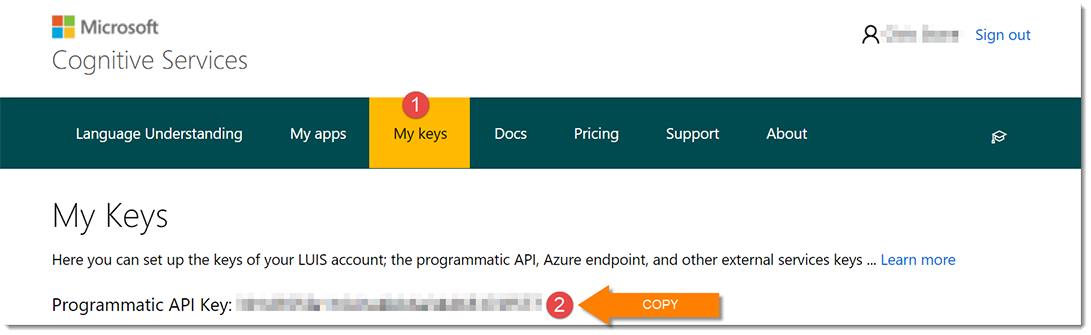
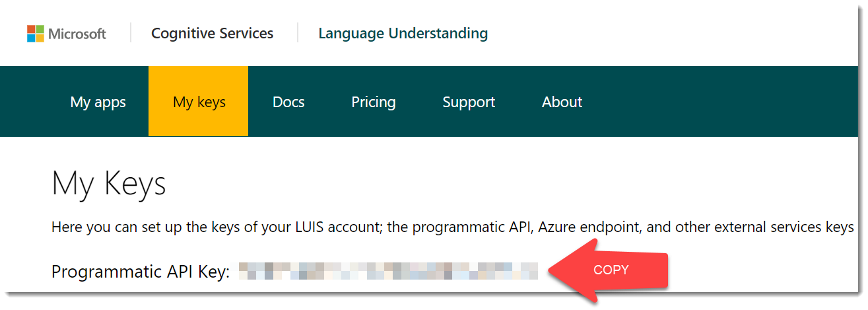
update images for new UI

diff --git a/docs/LUIS-Programmatic-Key.md b/docs/LUIS-Programmatic-Key.md
@@ -1,11 +1,11 @@
 # Finding your LUIS programmatic key
 LUIS is your bot's intelligent language service for understanding callers' intents and entities. For your bot to load the language model for this solution, you must supply your `programmatic key`.
 
-1. Navigate to the [LUIS Portal][3] and sign in.
-![screenshot][1]
+1. Navigate to the [LUIS Portal][1] and sign in.
+![screenshot][IMG1]
 1. Click the `my keys` tab and copy your `programmatic api key`
-![screenshot][2]
+![screenshot][IMG2]
 
-[1]: ./img/luis-key-01.png
-[2]: ./img/luis-key-02.png
-[3]: https://www.luis.ai/home/keys
+[IMG1]: ./img/luis-key-01.png
+[IMG2]: ./img/luis-key-02.png
+[1]: https://www.luis.ai/home/keys
